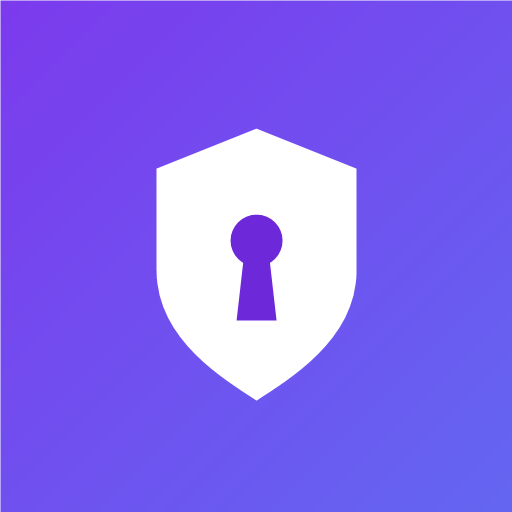
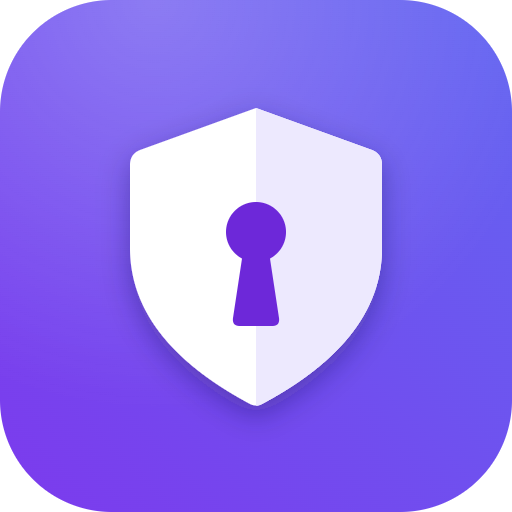
重新設計 App 圖示並補齊各平台規格
- 新設計：與鎖定畫面 Logo 相同的紫色漸層，雙色盾牌加鑰匙孔
- 新增 icon.svg 作為設計母版與瀏覽器分頁圖示
- 新增 icon-maskable-512.png 專用 maskable 圖示（主體位於安全區內）
- 新增 favicon-32.png，並重新產生 icon-192、icon-512、apple-touch-icon
- manifest.json 改用專用 maskable 圖示，index.html 加入 SVG 與 32px 圖示
- sw.js 快取新圖示，快取版本升至 v6；CLAUDE.md 補充圖示規格

diff --git a/sw.js b/sw.js
@@ -1,5 +1,5 @@
 // 離線快取控制核心
-const CACHE_NAME = 'cipherkeep-offline-cache-v5';
+const CACHE_NAME = 'cipherkeep-offline-cache-v6';
 const ASSETS_TO_CACHE = [
   './',
   './index.html',
@@ -8,6 +8,9 @@ const ASSETS_TO_CACHE = [
   './icons/icon-192.png',
   './icons/icon-512.png',
   './icons/apple-touch-icon.png',
+  './icons/icon-maskable-512.png',
+  './icons/favicon-32.png',
+  './icons/icon.svg',
   'https://cdnjs.cloudflare.com/ajax/libs/font-awesome/6.4.0/css/all.min.css',
   // Font Awesome 圖示字型檔（CSS 內以相對路徑引用，需預先快取，否則離線時圖示會消失）
   'https://cdnjs.cloudflare.com/ajax/libs/font-awesome/6.4.0/webfonts/fa-solid-900.woff2',

diff --git a/index.html b/index.html
@@ -9,6 +9,8 @@
     <meta name="apple-mobile-web-app-status-bar-style" content="black-translucent">
     <meta name="apple-mobile-web-app-title" content="CipherKeep">
     <link rel="apple-touch-icon" href="./icons/apple-touch-icon.png">
+    <link rel="icon" type="image/svg+xml" href="./icons/icon.svg">
+    <link rel="icon" type="image/png" sizes="32x32" href="./icons/favicon-32.png">
     <link rel="icon" type="image/png" sizes="192x192" href="./icons/icon-192.png">
 
     <!-- 連結實體 PWA 設定檔 -->

diff --git a/CLAUDE.md b/CLAUDE.md
@@ -15,7 +15,7 @@ CipherKeep（密碼守護者）是一個**純前端、零後端**的離線密碼
 | `tailwind.config.js` | 重新產生 `tailwind.css` 用的設定（色票、字型） |
 | `manifest.json` | PWA 安裝設定（名稱、主題色、圖示） |
 | `sw.js` | Service Worker，負責離線快取（Offline First） |
-| `icons/` | PWA 與主畫面圖示（PNG） |
+| `icons/` | PWA 與主畫面圖示：`icon.svg` 為設計母版，其餘 PNG 由它產生 |
 
 沒有建置步驟、沒有套件管理器、沒有測試框架。**頁面不載入任何第三方腳本**；外部資源只有樣式與字型：Font Awesome 6.4.0（cdnjs，含 SRI）、Google Fonts（Inter、Noto Sans TC）。
 
@@ -89,4 +89,10 @@ npx tailwindcss@3 -c tailwind.config.js -o tailwind.css --minify
 
 - 所有與密碼相關的亂數一律使用 `secureRandomInt()`（`crypto.getRandomValues()` 加拒絕取樣），**不要使用 `Math.random()`**；洗牌使用 Fisher-Yates。
 - 主密碼於解鎖期間仍以明文保存在 `masterPassword`（匯入其他備份時需要用它解密）。
-- App 圖示位於 `icons/`（`icon-192.png`、`icon-512.png`、`apple-touch-icon.png`），已加入 `sw.js` 快取。
+- App 圖示位於 `icons/`，皆已加入 `sw.js` 快取：
+  - `icon.svg`：設計母版，也當作瀏覽器分頁圖示（圓角、透明背景）。
+  - `icon-192.png`、`icon-512.png`：manifest 的 `any`（圓角、透明背景）。
+  - `icon-maskable-512.png`：manifest 的 `maskable`（滿版，盾牌在中央 80% 安全區內）。
+  - `apple-touch-icon.png`（180×180）：iOS 主畫面（滿版不透明，iOS 會自行裁圓角）。
+  - `favicon-32.png`：不支援 SVG 圖示的瀏覽器使用。
+  - 設計：背景為 `#7c3aed → #6366f1` 漸層（與鎖定畫面 Logo 相同），白色／`#ede9fe` 雙色盾牌加 `#6d28d9` 鑰匙孔。修改時請同步重新產生所有 PNG。
